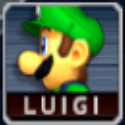
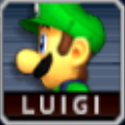
fixed char iamges and added extras tab

diff --git a/src/app/modes/modes.component.html b/src/app/modes/modes.component.html
@@ -1,0 +1,80 @@
+<ul>
+  <li>Pick game</li>
+  <li>pick mode</li>
+  <li>--if c4---</li>
+  <li>roll a die for first/second</li>
+  <li>make a 7x6 grid </li>
+  <li>show the char menus for disabling </li>
+  <li>start button </li>
+  <li>two players have their "active character"  </li>
+  <li>click active char to say who won </li>
+  <li>Click grid spot to place tile, make a distinction as to who won that round </li>
+  <li>check if someone connected 4  </li>
+  <li> </li>
+  <li> </li>
+  <li> </li>
+  <li> </li>
+</ul>
+<table>
+  <tr>
+    <td>f</td>
+    <td>f</td>
+    <td>f</td>
+    <td>f</td>
+    <td>f</td>
+    <td>f</td>
+    <td>f</td>
+  </tr>
+  
+  <tr>
+    <td>f</td>
+    <td>f</td>
+    <td>f</td>
+    <td>f</td>
+    <td>f</td>
+    <td>f</td>
+    <td>f</td>
+  </tr>
+  
+  <tr>
+    <td>f</td>
+    <td>f</td>
+    <td>f</td>
+    <td>f</td>
+    <td>f</td>
+    <td>f</td>
+    <td>f</td>
+  </tr>
+  
+  <tr>
+    <td>f</td>
+    <td>f</td>
+    <td>f</td>
+    <td>f</td>
+    <td>f</td>
+    <td>f</td>
+    <td>f</td>
+  </tr>
+  
+  <tr>
+    <td>f</td>
+    <td>f</td>
+    <td>f</td>
+    <td>f</td>
+    <td>f</td>
+    <td>f</td>
+    <td>f</td>
+  </tr>
+  
+  <tr>
+    <td>f</td>
+    <td>f</td>
+    <td>f</td>
+    <td>f</td>
+    <td>f</td>
+    <td>f</td>
+    <td>f</td>
+  </tr>
+  
+  
+</table>

diff --git a/src/app/app.component.html b/src/app/app.component.html
@@ -15,10 +15,10 @@
   <mat-tab-group [(selectedIndex)] ="idx" style="background-color: rgb(241, 241, 241)" mat-align-tabs="center">
     <mat-tab label="Melee" index = "0"><app-melee></app-melee></mat-tab>
       <mat-tab label="Ultimate" index="1" [disabled] = false> <app-ultimate></app-ultimate></mat-tab>
-      <mat-tab label="About" index="2" ><app-about></app-about> </mat-tab>
-      <!-- <mat-tab label="welcome" index="3" ><app-welcome></app-welcome> </mat-tab> -->
+      <!-- <mat-tab label="Extras" index="2" ><app-modes></app-modes> </mat-tab> -->
+      <mat-tab label="About" index="3" ><app-about></app-about> </mat-tab>
       
-      <mat-tab label="Contact" index="3" ><app-contact></app-contact> </mat-tab> 
+      <mat-tab label="Contact" index="4" ><app-contact></app-contact> </mat-tab> 
       
     </mat-tab-group>
   </body>

diff --git a/src/app/about/about.component.html b/src/app/about/about.component.html
@@ -9,6 +9,9 @@
   </mat-card-header>
   <mat-card-content>
      > Private rooms for non-local play! <br>
+     > Project M support<br>
+     > Tic-Tack-Toe mode<br>
+     > Possibly a Connect Four type mode <br>
      > Work on styling/layout more <br>
      > <s>Full blown Ultimate support</s> <br>
      > <s>Getting this to a real domain</s> <br>
@@ -80,7 +83,9 @@
   </mat-card-header>
   <mat-card-content>
     > Session sharing now works for Melee<br>
-    > Ultimate session sharing is still under construction
+    > Ultimate session sharing is still under construction<br>
+    > More goals in the upcoming stuff section<br>
+    > Cleaned up Melee menu character images
   </mat-card-content>
 </mat-card>
    

diff --git a/src/app/modes/modes.component.spec.ts b/src/app/modes/modes.component.spec.ts
@@ -1,0 +1,25 @@
+import { async, ComponentFixture, TestBed } from '@angular/core/testing';
+
+import { ModesComponent } from './modes.component';
+
+describe('ModesComponent', () => {
+  let component: ModesComponent;
+  let fixture: ComponentFixture<ModesComponent>;
+
+  beforeEach(async(() => {
+    TestBed.configureTestingModule({
+      declarations: [ ModesComponent ]
+    })
+    .compileComponents();
+  }));
+
+  beforeEach(() => {
+    fixture = TestBed.createComponent(ModesComponent);
+    component = fixture.componentInstance;
+    fixture.detectChanges();
+  });
+
+  it('should create', () => {
+    expect(component).toBeTruthy();
+  });
+});

diff --git a/src/app/app.module.ts b/src/app/app.module.ts
@@ -32,6 +32,7 @@ import {
 } from '@angular/material';
 import { PatreonComponent } from './patreon/patreon.component';
 import { WelcomeComponent } from './welcome/welcome.component';
+import { ModesComponent } from './modes/modes.component';
 
 
 @NgModule({
@@ -47,6 +48,8 @@ ContactComponent,
 PatreonComponent,
 
 WelcomeComponent,
+
+ModesComponent,
   ],
   imports: [
     MatDialogModule,

diff --git a/src/app/app.component.ts b/src/app/app.component.ts
@@ -3,6 +3,7 @@ import { Component, OnInit } from '@angular/core';
 import { MatDialogRef, MatDialogConfig, MatDialog, MatDialogModule } from '@angular/material'
 import { WelcomeComponent } from './welcome/welcome.component';
 import { MAT_DIALOG_DATA } from '@angular/material';
+declare var ON_STATE_CHANGED: any;
 @Component({
   selector: 'app-root',
   templateUrl: './app.component.html',

diff --git a/src/app/modes/modes.component.ts b/src/app/modes/modes.component.ts
@@ -1,0 +1,15 @@
+import { Component, OnInit } from '@angular/core';
+
+@Component({
+  selector: 'app-modes',
+  templateUrl: './modes.component.html',
+  styleUrls: ['./modes.component.css']
+})
+export class ModesComponent implements OnInit {
+
+  constructor() { }
+
+  ngOnInit() {
+  }
+
+}

diff --git a/src/app/modes/modes.component.css b/src/app/modes/modes.component.css
@@ -1,0 +1,9 @@
+td{
+    border: darkcyan;
+    background-color: red;
+    padding-top: 65px;
+    padding-bottom: 65px;
+    padding-left: 70px;
+    padding-right: 70px;
+    border-radius: 100px;
+}
